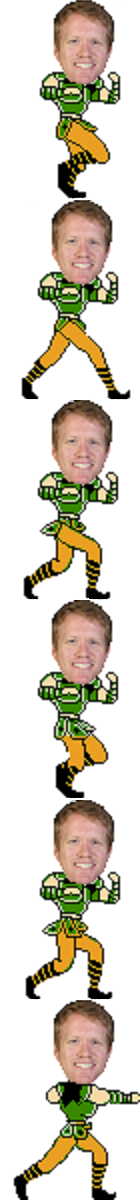
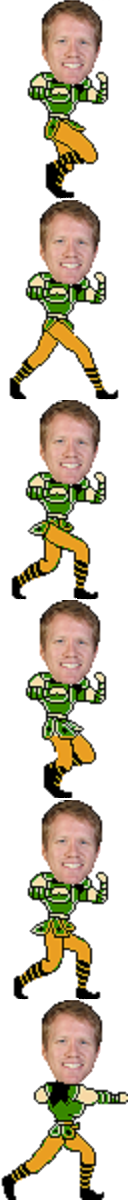
changed character sprites to have correct width

diff --git a/FGame/src/Player.cpp b/FGame/src/Player.cpp
@@ -16,7 +16,7 @@ Player::Player() {
     x = 70;
     y = 200;
     h = 200;
-    w = 140;
+    w = 130;
     xVel = 0;
     yVel = 0;
     renderer = NULL;
@@ -49,7 +49,7 @@ void Player::update(Clock *clock) {
     y += yVel * clock->getTimeScale();
 }
 
-void Player::punch() {
+void Player::punch(Clock *clock) {
     walking = false;
     punchSound.play();
     ani.firstFrame = 5;
@@ -57,7 +57,7 @@ void Player::punch() {
     ani.setCurrentFrame(5);
 }
 
-void Player::walk() {
+void Player::walk(Clock *clock) {
     if (!walking) {
         ani.firstFrame = 0;
         ani.lastFrame = 4;
@@ -84,11 +84,11 @@ void Player::draw() {
 
 bool Player::checkCollision(const Player *other) {
     bool result = false;
-    if () {
+    if (x < (other->x + other->w) && (x + w) > other->x) {
         result = true;
         x -= xVel;
         halt();
-    } else if () {
+    } else if (x + w < (other->x) && x > (other->x + other->w)) {
         result = true;
         x -= xVel;
         halt();

diff --git a/FGame/src/OnLoop.cpp b/FGame/src/OnLoop.cpp
@@ -31,18 +31,18 @@ void FGame::OnLoop()
         
         /** Bad code, want to change later. **/
         if(punch1){
-            p1.punch();
+            p1.punch(&mainClock);
             punch1 = false;
         }
         else {
-            p1.walk();
+            p1.walk(&mainClock);
         }
         if(punch2){
-            p2.punch();
+            p2.punch(&mainClock);
             punch2 = false;
         }
         else {
-            p2.walk();
+            p2.walk(&mainClock);
         }
         
         p1.checkCollision(&p2);

diff --git a/FGame/src/Player.h b/FGame/src/Player.h
@@ -33,8 +33,8 @@ public:
     ~Player();
     void loadPlayer(const char *image, const char *attack, SDL_Renderer *renderer, int x, int y);
     void update(Clock *clock);
-    void punch();
-    void walk();
+    void punch(Clock *clock);
+    void walk(Clock *clock);
     void moveLeft();
     void moveRight();
     void halt();

diff --git a/FGame/src/OnEvent.cpp b/FGame/src/OnEvent.cpp
@@ -52,12 +52,10 @@ void FGame::OnJoyButtonDown(Uint8 which, Uint8 button)
     if(button == A_BUTTON)
     {
         punch1 = true;
-        // p1.punch();
     }
     
     if(button == B_BUTTON)
     {
-        // p2.punch();
         punch2 = true;
     }
     

diff --git a/FGame/src/FGame.cpp b/FGame/src/FGame.cpp
@@ -27,12 +27,6 @@ FGame::FGame() {
     /** Control character animation. **/
     punch1 = false;
     punch2 = false;
-    
-	// p1 = Player(100);
-	// p2 = Player(100);
-
-	// p1.setAnimation(poorAnim);
-	// p2.setAnimation(poorAnim);
 
     joystick1 = NULL;
 

diff --git a/FGame/src/Animation.cpp b/FGame/src/Animation.cpp
@@ -71,6 +71,7 @@ void Animation::setFrameRate(int rate)
 
 void Animation::setCurrentFrame(int frame)
 {
+    
     if(frame < firstFrame || frame > lastFrame)
     {
         return;
